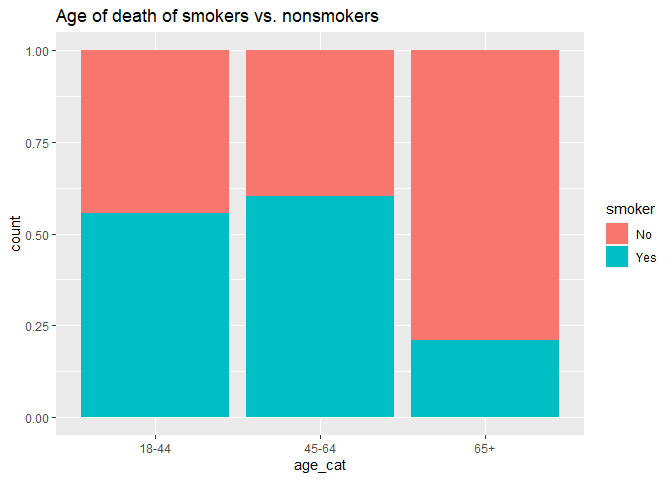
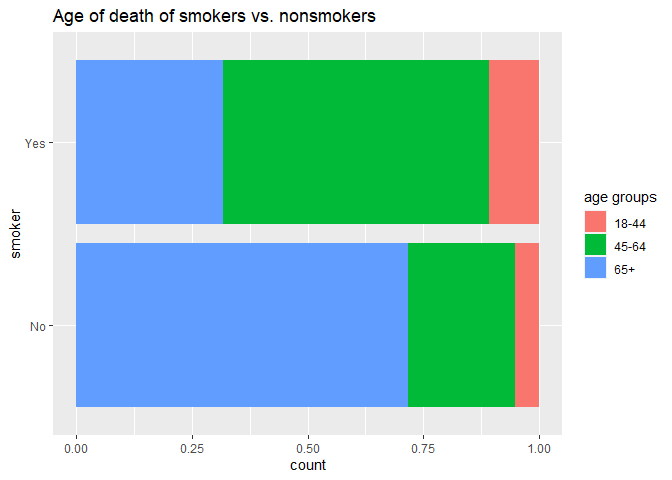
done!

diff --git a/lab-06b.md b/lab-06b.md
@@ -14,9 +14,11 @@ data(Whickham)
 
 A study conducted of Whickham, England recorded participants’ age,
 smoking status at baseline, and then 20 years later recorded their
-health outcome. - observational data - three variables: outcome (alive
-or dead), smoker (yes or no), age - smokers might die at a younger age
-than nonsmokers
+health outcome.
+
+We can see that the observational dataset has three variables: outcome
+(alive or dead), smoker (yes or no), age. We might expect to see that
+smokers die at a younger age than nonsmokers.
 
 ``` r
 head(Whickham)
@@ -121,14 +123,16 @@ Whickham %>%
 ![](lab-06b_files/figure-gfm/viz-1.png)<!-- -->
 
 We can see this pattern more clearly by filtering in people who are
-dead.
+dead. Most smokers died between the age of 45-64, whereas most
+nonsmokers died after 65. Besides, there are more smokers than
+nonsmokers who died between 18-44.
 
 ``` r
 Whickham %>%
   filter(outcome == "Dead") %>%
-  ggplot(aes(x = age_cat, fill = smoker)) +
+  ggplot(aes(y = smoker, fill = age_cat)) +
   geom_bar(position = "fill") +
-  labs(title = "Age of death of smokers vs. nonsmokers")
+  labs(title = "Age of death of smokers vs. nonsmokers", fill = "age groups")
 ```
 
 ![](lab-06b_files/figure-gfm/bar-1.png)<!-- -->
